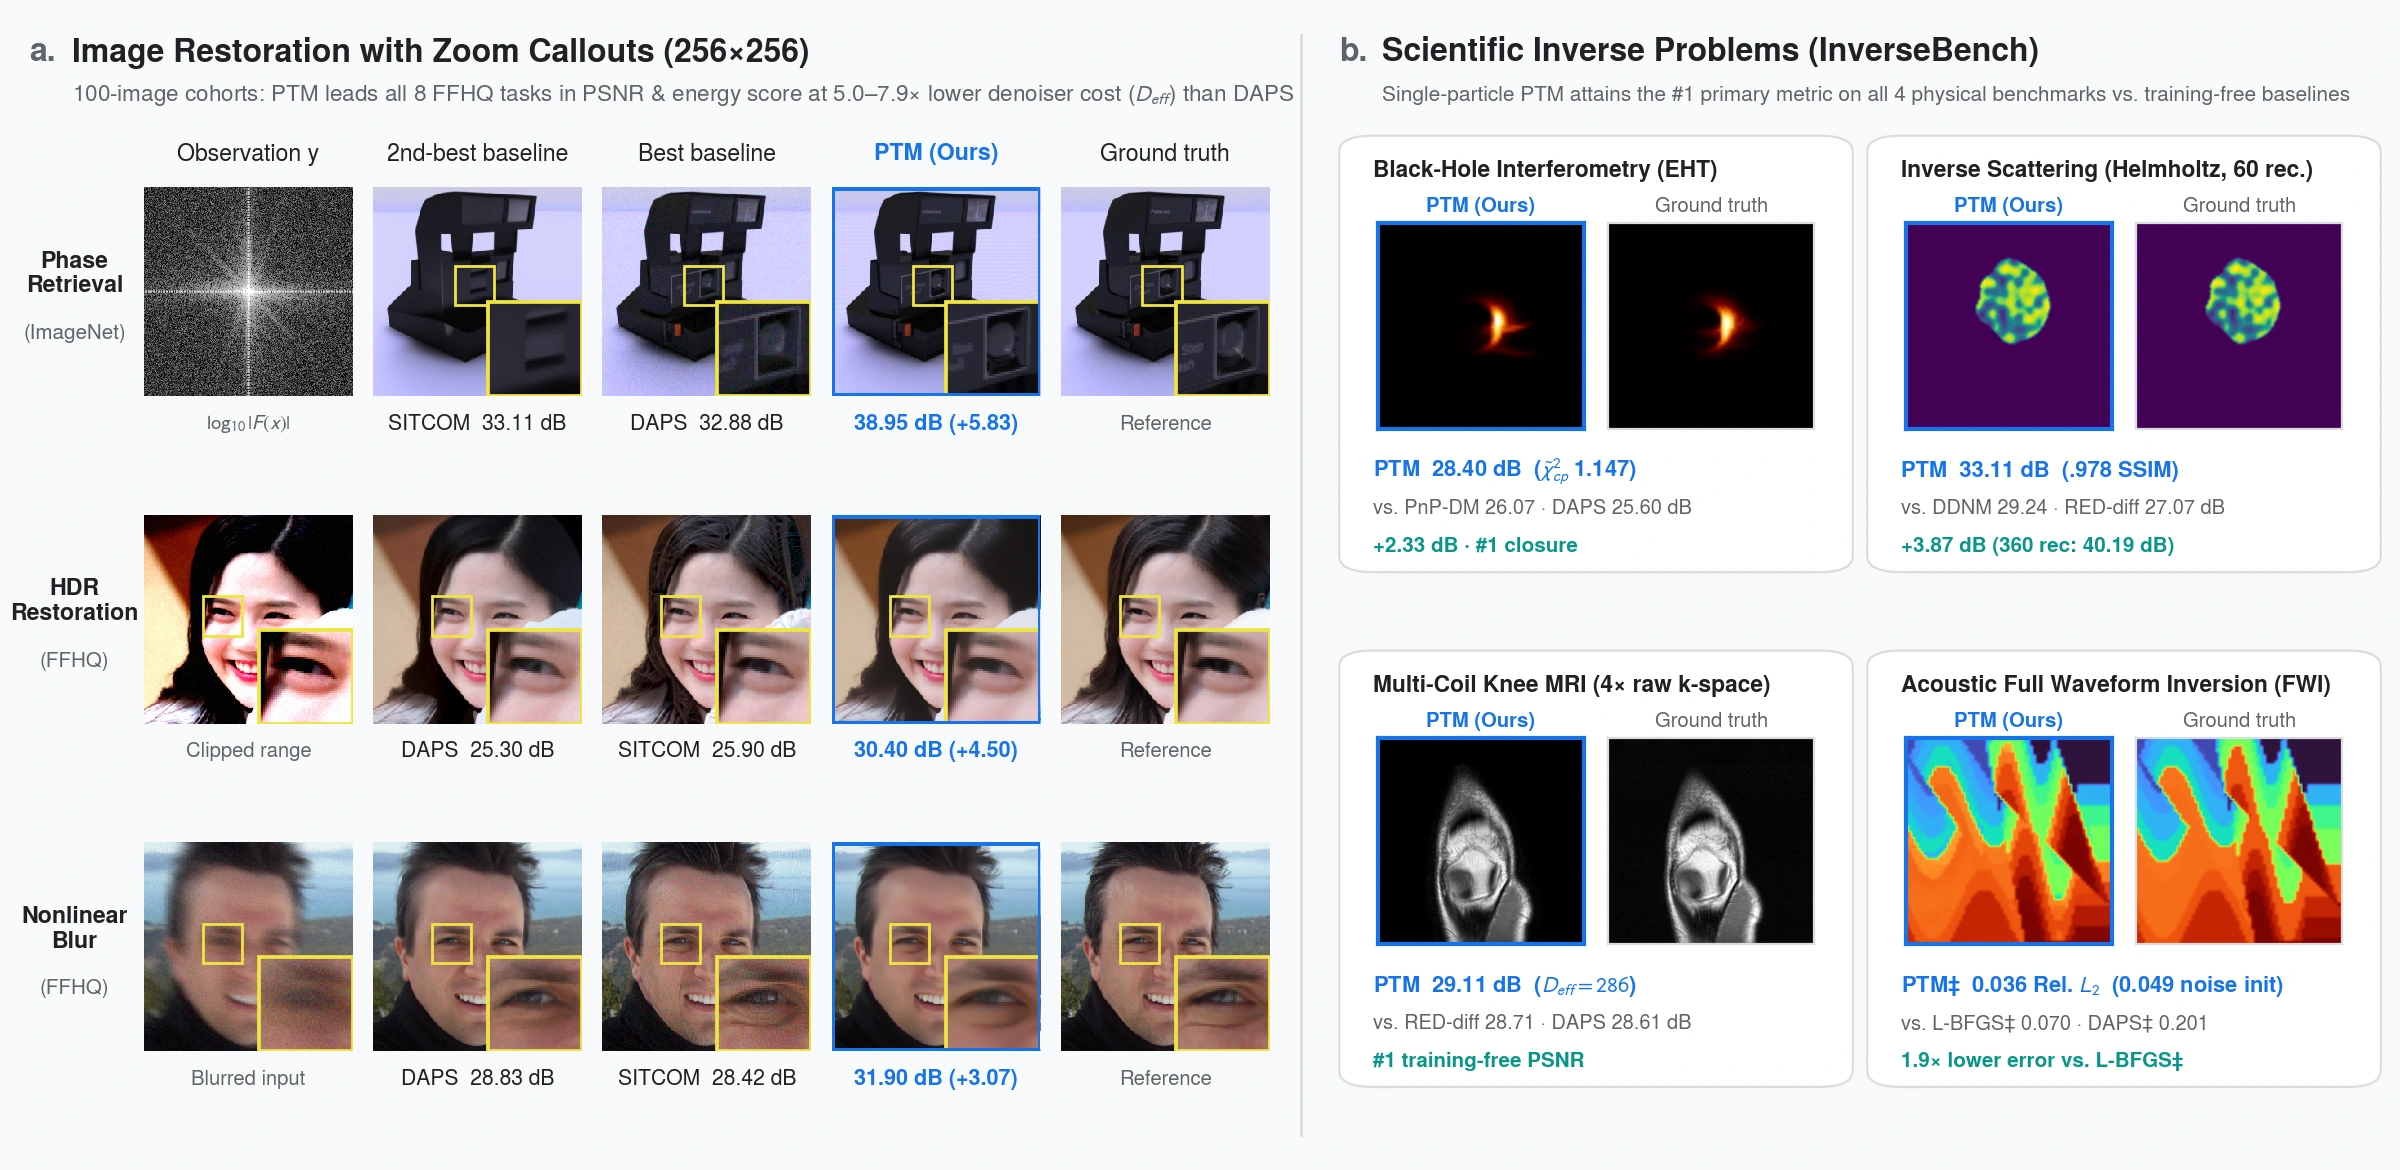
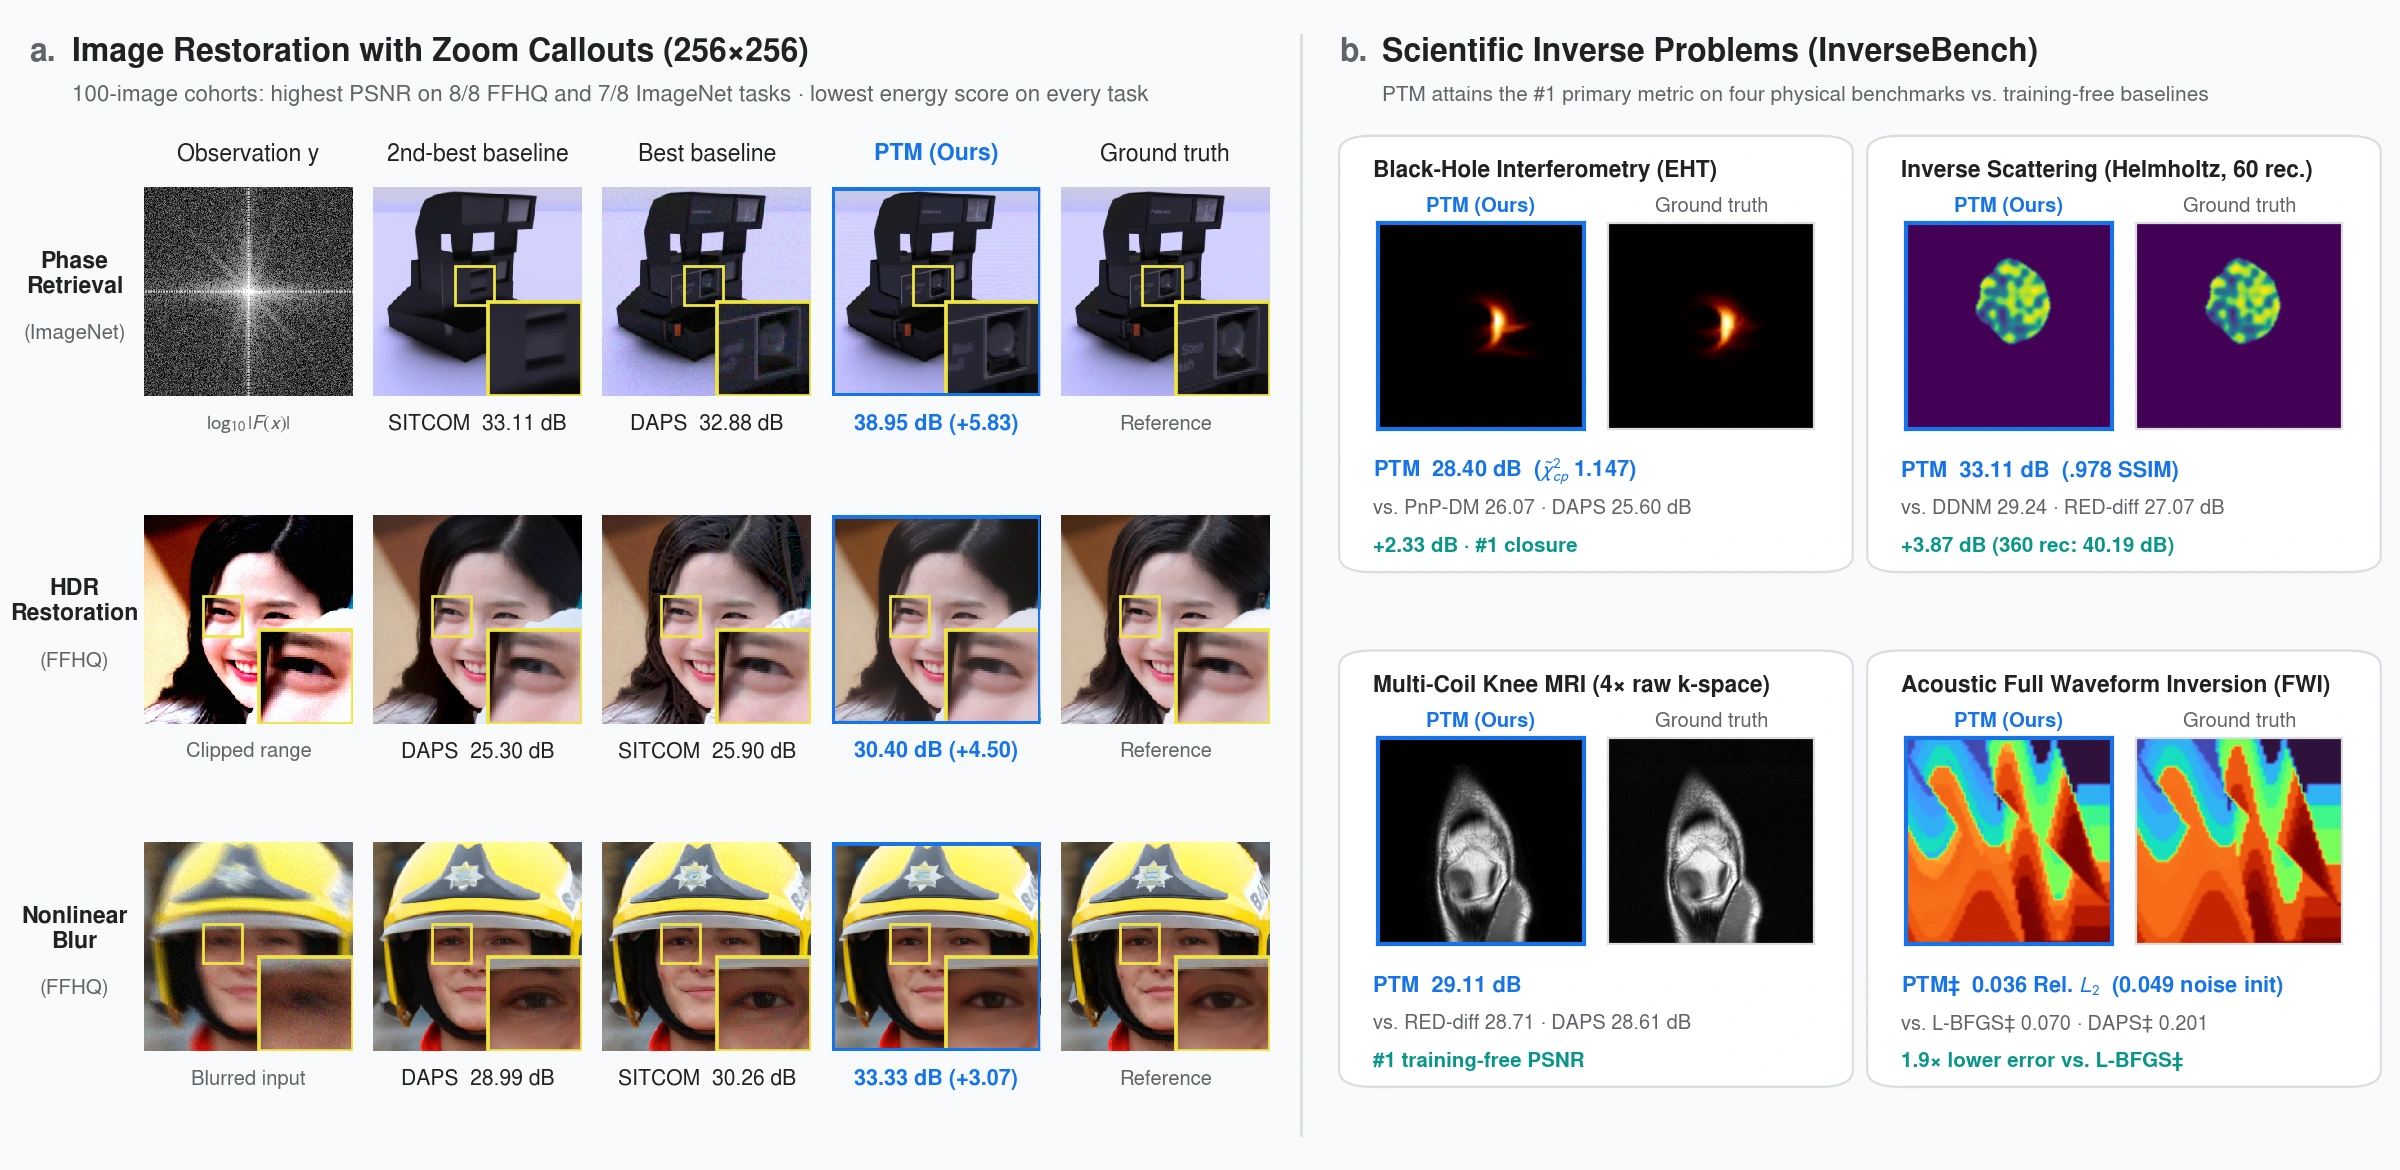
Drop 'all' before four InverseBench problems across CV & figures and merge Humelo memory-optimization bullet

diff --git a/src/data/cv.ts b/src/data/cv.ts
@@ -80,7 +80,7 @@ export const cv = {
       place: "Humelo, Inc. — incl. two years of alternative military service (industrial technical personnel)",
       date: "Sep 2020 – Jan 2024",
       details: [
-        "Production text-to-speech and voice-conversion systems across multiple product lines.",
+        "Production text-to-speech and voice-conversion systems across multiple product lines; cut training memory by rewriting tensor operations one at a time, spending the savings on larger batches and models.",
         "Proposed Style Contrastive Adversarial Neutralization (SCAN) for vocal-style disentanglement, combining bi-adversarial training with contrastive feature compaction.",
         "Implemented an LTU-2-family audio–text understanding system (Llama × Whisper-AT) with partial LoRA / QLoRA training.",
         "Stabilised auto-regressive TTS via Lipschitz-preserving discriminators and 3-step causal training.",

diff --git a/src/data/papers.ts b/src/data/papers.ts
@@ -52,7 +52,7 @@ export const papers: Paper[] = [
     authors: "Junu Choi, Youngjoon Hong",
     venue: "Under review",
     cvDetails: [
-      "Best primary metric on all four scientific inverse problems (InverseBench), highest PSNR on 8/8 FFHQ and 7/8 ImageNet tasks, and lowest energy score on every task.",
+      "Best primary metric on four scientific inverse problems (InverseBench), highest PSNR on 8/8 FFHQ and 7/8 ImageNet tasks, and lowest energy score on every task.",
     ],
     links: [
       { label: "Preview", href: "/papers/#ptm" },

diff --git a/scripts/figures/ptm_results.py b/scripts/figures/ptm_results.py
@@ -28,7 +28,11 @@ from PIL import Image
 import torch
 
 FONT_DIR = os.environ.get("FIGURE_FONT_DIR")
-for _f in glob.glob(os.path.join(FONT_DIR, "*.ttf")) if FONT_DIR else []:
+for _f in (
+    glob.glob(os.path.join(FONT_DIR, "*.ttf")) + glob.glob(os.path.join(FONT_DIR, "*.otf"))
+    if FONT_DIR
+    else []
+):
     font_manager.fontManager.addfont(_f)
 
 OUT_DIR = Path(__file__).resolve().parents[2] / "public" / "figures" / "ptm"
@@ -46,7 +50,8 @@ TEAL = "#0D9488"
 GOLD = "#F0E442"
 
 plt.rcParams.update({
-    "font.family": "TeX Gyre Heros",
+    "font.family": "sans-serif",
+    "font.sans-serif": ["TeX Gyre Heros", "Nimbus Sans", "DejaVu Sans"],
     "font.size": 8.5,
     "mathtext.fontset": "stixsans",
     "figure.facecolor": BG,
@@ -139,7 +144,7 @@ def build_wide_banner(qual_data, ib):
     fig.text(0.030, 0.955, "Image Restoration with Zoom Callouts (256×256)", fontsize=11.5, fontweight="bold", color=INK, va="center")
     fig.text(
         0.030, 0.918,
-        r"100-image cohorts: PTM leads all 8 FFHQ tasks in PSNR & energy score at 5.0–7.9× lower denoiser cost ($D_{\mathsf{eff}}$) than DAPS",
+        "100-image cohorts: highest PSNR on 8/8 FFHQ and 7/8 ImageNet tasks · lowest energy score on every task",
         fontsize=8.1, color=MUTED, va="center",
     )
 
@@ -150,7 +155,7 @@ def build_wide_banner(qual_data, ib):
     fig.text(0.576, 0.955, "Scientific Inverse Problems (InverseBench)", fontsize=11.5, fontweight="bold", color=INK, va="center")
     fig.text(
         0.576, 0.918,
-        "Single-particle PTM attains the #1 primary metric on all 4 physical benchmarks vs. training-free baselines",
+        "PTM attains the #1 primary metric on four physical benchmarks vs. training-free baselines",
         fontsize=7.5, color=MUTED, va="center",
     )
 
@@ -246,7 +251,7 @@ def build_wide_banner(qual_data, ib):
             "title": "Multi-Coil Knee MRI (4× raw k-space)",
             "rec": render_image_tile(mri_rec, "gray", 0.0, np.percentile(mri_gt, 99.5)),
             "gt": render_image_tile(mri_gt, "gray", 0.0, np.percentile(mri_gt, 99.5)),
-            "ptm_metric": r"PTM  29.11 dB  ($D_{\mathsf{eff}} = 286$)",
+            "ptm_metric": "PTM  29.11 dB",
             "base_metric": "vs. RED-diff 28.71 · DAPS 28.61 dB",
             "badge": "#1 training-free PSNR",
         },
@@ -314,7 +319,7 @@ def build_home_card(qual_data, ib):
 
     # Section a: Image restoration with zoom callouts
     fig.text(0.015, 0.966, "a. Image Restoration with Zoom Callouts", fontsize=10.6, fontweight="bold", color=INK, va="center")
-    fig.text(0.985, 0.966, r"#1 PSNR across all 8 FFHQ tasks · 5–8× lower $D_{\mathsf{eff}}$", fontsize=8.5, fontweight="bold", color=BLUE, ha="right", va="center")
+    fig.text(0.985, 0.966, "#1 PSNR on 8/8 FFHQ & 7/8 ImageNet · Lowest energy score", fontsize=8.5, fontweight="bold", color=BLUE, ha="right", va="center")
 
     rows_spec = [
         ("imagenet", "phase_retrieval", "Phase\nRetrieval"),
@@ -381,7 +386,7 @@ def build_home_card(qual_data, ib):
 
     # Section b: InverseBench Scientific Inverse Problems
     fig.text(0.015, 0.254, "b. Scientific Inverse Problems (InverseBench)", fontsize=10.4, fontweight="bold", color=INK, va="center")
-    fig.text(0.985, 0.254, "Blue frame: PTM · Grey: Ground truth · #1 on all 4 tasks", fontsize=8.1, fontweight="bold", color=TEAL, ha="right", va="center")
+    fig.text(0.985, 0.254, "Blue frame: PTM · Grey: Ground truth · #1 on 4 tasks", fontsize=8.1, fontweight="bold", color=TEAL, ha="right", va="center")
 
     bh_rec, bh_gt = ib["bh"]
     scat_rec, scat_gt = ib["scat"]
